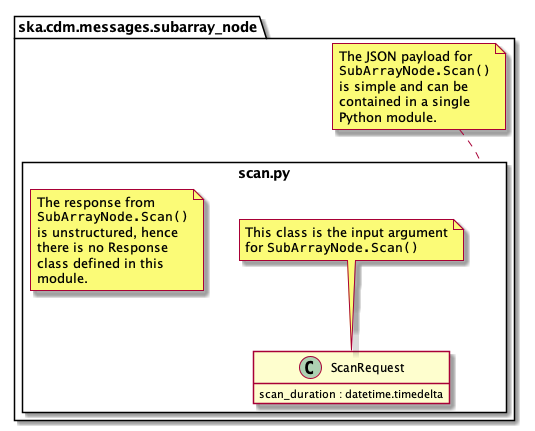
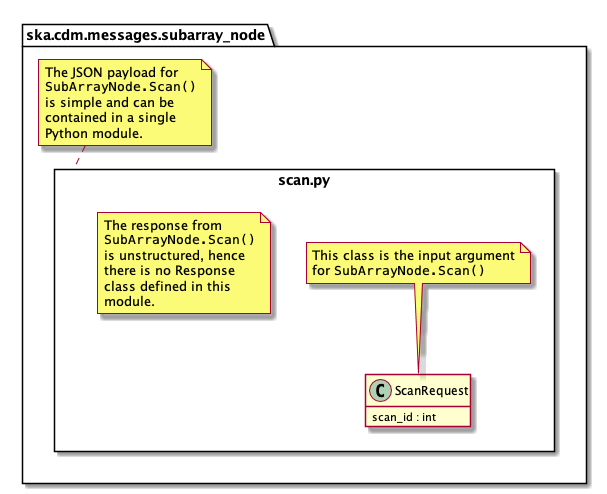
Update documentation; regenerate PUML diagram

diff --git a/docs/src/developer/subarraynode/subarraynode.rst b/docs/src/developer/subarraynode/subarraynode.rst
@@ -196,7 +196,7 @@ Below is an example JSON command argument that this code can model.
 .. code-block:: JSON
 
   {
-    "scanDuration": 10.0
+    "id": 2
   }
 
 
